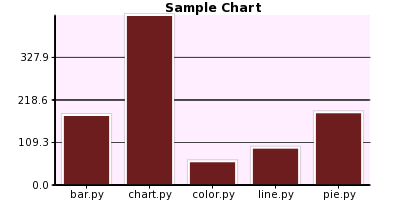
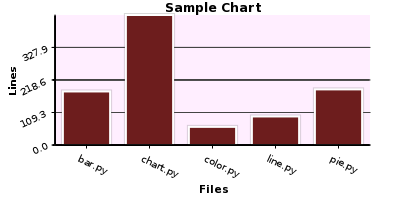
Support for rendering the ticks with rotation. Also support for drawing labels in both axis. Based on patch sended by jae. View #6

diff --git a/src/chart.py b/src/chart.py
@@ -16,6 +16,8 @@
 # along with PyCha.  If not, see <http://www.gnu.org/licenses/>.
 
 import copy
+import math
+
 import cairo
 
 from pycha.color import (defaultColorscheme, getColorscheme, hex2rgb,
@@ -305,6 +307,110 @@ class Chart(object):
     def _renderChart(self, cx):
         raise NotImplementedError
 
+    def _renderYLabel(self, cx, tick):
+        """Aux method for _renderAxis"""
+
+        if callable(tick):
+            return
+
+        x = self.area.x
+        y = self.area.y + tick[0] * self.area.h
+
+        cx.new_path()
+        cx.move_to(x, y)
+        cx.line_to(x - self.options.axis.tickSize, y)
+        cx.close_path()
+        cx.stroke()
+
+        label =  unicode(tick[1])
+        extents = cx.text_extents(label)
+        labelWidth = extents[2]
+        labelHeight = extents[3]
+
+        if self.options.axis.y.rotate:
+            radians = math.radians(self.options.axis.y.rotate)
+            cx.move_to(x - self.options.axis.tickSize
+                       - (labelWidth * math.cos(radians))
+                       - 4,
+                       y + (labelWidth * math.sin(radians))
+                       + labelHeight / (2.0 / math.cos(radians)))
+            cx.rotate(-radians)
+            cx.show_text(label)
+            cx.rotate(radians) # this is probably faster than a save/restore
+        else:
+            cx.move_to(x - self.options.axis.tickSize - labelWidth - 4,
+                       y + labelHeight / 2.0)
+            cx.show_text(label)
+
+        return label
+
+    def _renderXLabel(self, cx, tick, fontAscent):
+        if callable(tick):
+            return
+
+        x = self.area.x + tick[0] * self.area.w
+        y = self.area.y + self.area.h
+
+        cx.new_path()
+        cx.move_to(x, y)
+        cx.line_to(x, y + self.options.axis.tickSize)
+        cx.close_path()
+        cx.stroke()
+
+        label = unicode(tick[1])
+        extents = cx.text_extents(label)
+        labelWidth = extents[2]
+        labelHeight = extents[3]
+
+        if self.options.axis.x.rotate:
+            radians = math.radians(self.options.axis.x.rotate)
+            cx.move_to(x - (labelHeight * math.cos(radians)),
+                       y + self.options.axis.tickSize
+                       + (labelHeight * math.cos(radians))
+                       + 4.0)
+            cx.rotate(radians)
+            cx.show_text(label)
+            cx.rotate(-radians)
+        else:
+            cx.move_to(x - labelWidth / 2.0,
+                       y + self.options.axis.tickSize
+                       + fontAscent + 4.0)
+            cx.show_text(label)
+        return label
+
+    def _getTickSize(self, cx, ticks, rotate):
+        tickExtents = [cx.text_extents(unicode(tick[1]))[2:4] for tick in ticks]
+        tickWidth = tickHeight = 0.0
+        if tickExtents:
+            tickHeight = tickHeight = self.options.axis.tickSize + 4.0
+            widths, heights = zip(*tickExtents)
+            maxWidth, maxHeight = max(widths), max(heights)
+            if rotate:
+                radians = math.radians(rotate)
+                sinRadians = math.sin(radians)
+                cosRadians = math.cos(radians)
+                maxHeight = maxWidth * sinRadians + maxHeight * cosRadians
+                maxWidth =  maxWidth * cosRadians + maxHeight * sinRadians
+            tickWidth += maxWidth
+            tickHeight += maxHeight
+        return tickWidth, tickHeight
+        
+    def _renderAxisLabel(self, cx, tickWidth, tickHeight, label, x, y, vertical=False):
+        cx.new_path()
+        cx.select_font_face(self.options.axis.labelFont,
+                            cairo.FONT_SLANT_NORMAL,
+                            cairo.FONT_WEIGHT_BOLD)
+        labelWidth = cx.text_extents(label)[2]
+        fontAscent = cx.font_extents()[0]
+        if vertical:
+            cx.move_to(x, y + labelWidth / 2)
+            radians = math.radians(90)
+            cx.rotate(-radians)
+        else:
+            cx.move_to(x - labelWidth / 2.0, y + fontAscent)
+            
+        cx.show_text(label)
+
     def _renderAxis(self, cx):
         """Renders axis"""
         if self.options.axis.x.hide and self.options.axis.y.hide:
@@ -316,31 +422,20 @@ class Chart(object):
 
         if not self.options.axis.y.hide:
             if self.yticks:
-                def drawYLabel(tick):
-                    if callable(tick):
-                        return
-
-                    x = self.area.x
-                    y = self.area.y + tick[0] * self.area.h
-
-                    cx.new_path()
-                    cx.move_to(x, y)
-                    cx.line_to(x - self.options.axis.tickSize, y)
-                    cx.close_path()
-                    cx.stroke()
-
-                    label =  unicode(tick[1])
-                    extents = cx.text_extents(label)
-                    labelWidth = extents[2]
-                    labelHeight = extents[3]
-                    cx.move_to(x - self.options.axis.tickSize - labelWidth - 5,
-                               y + labelHeight / 2.0)
-                    cx.show_text(label)
-
-                    return label
                 for tick in self.yticks:
-                    drawYLabel(tick)
+                    self._renderYLabel(cx, tick)
 
+            if self.options.axis.y.label:
+                cx.save()
+                rotate = self.options.axis.y.rotate
+                tickWidth, tickHeight = self._getTickSize(cx, self.yticks, rotate)
+                label = unicode(self.options.axis.y.label)
+                x = self.area.x - tickWidth - 4.0
+                y = self.area.y + 0.5 * self.area.h
+                self._renderAxisLabel(cx, tickWidth, tickHeight, label, x, y, True)
+                cx.restore()
+
+            # draws the vertical line representing the Y axis
             cx.new_path()
             cx.move_to(self.area.x, self.area.y)
             cx.line_to(self.area.x, self.area.y + self.area.h)
@@ -348,31 +443,22 @@ class Chart(object):
             cx.stroke()
 
         if not self.options.axis.x.hide:
+            fontAscent = cx.font_extents()[0]
             if self.xticks:
-                def drawXLabel(tick):
-                    if callable(tick):
-                        return
-
-                    x = self.area.x + tick[0] * self.area.w
-                    y = self.area.y + self.area.h
-
-                    cx.new_path()
-                    cx.move_to(x, y)
-                    cx.line_to(x, y + self.options.axis.tickSize)
-                    cx.close_path()
-                    cx.stroke()
-
-                    label = unicode(tick[1])
-                    extents = cx.text_extents(label)
-                    labelWidth = extents[2]
-                    labelHeight = extents[3]
-                    cx.move_to(x - labelWidth / 2.0,
-                               y + self.options.axis.tickSize + 10)
-                    cx.show_text(label)
-                    return label
                 for tick in self.xticks:
-                    drawXLabel(tick)
+                    self._renderXLabel(cx, tick, fontAscent)
 
+            if self.options.axis.x.label:
+                cx.save()
+                rotate = self.options.axis.x.rotate
+                tickWidth, tickHeight = self._getTickSize(cx, self.xticks, rotate)
+                label = unicode(self.options.axis.x.label)
+                x = self.area.x + self.area.w / 2.0
+                y = self.area.y + self.area.h + tickHeight + 4.0
+                self._renderAxisLabel(cx, tickWidth, tickHeight, label, x, y, False)
+                cx.restore()
+
+            # draws the horizontal line representing the X axis
             cx.new_path()
             cx.move_to(self.area.x, self.area.y + self.area.h)
             cx.line_to(self.area.x + self.area.w, self.area.y + self.area.h)
@@ -383,10 +469,7 @@ class Chart(object):
 
     def _renderTitle(self, cx):
         if self.options.title:
-            # get previous font information
-            oldFace = cx.get_font_face()
-            oldMatrix = cx.get_font_matrix()
-            
+            cx.save()           
             cx.select_font_face(self.options.titleFont,
                                 cairo.FONT_SLANT_NORMAL,
                                 cairo.FONT_WEIGHT_BOLD)
@@ -402,9 +485,7 @@ class Chart(object):
             cx.move_to(x, y)
             cx.show_text(title)
             
-            # restore font state
-            cx.set_font_face(oldFace)
-            cx.set_font_matrix(oldMatrix)
+            cx.restore()
 
     def _renderLegend(self, cx):
         """This function adds a legend to the chart"""
@@ -493,6 +574,8 @@ DEFAULT_OPTIONS = Option(
             tickCount=10,
             tickPrecision=1,
             range=None,
+            rotate=None,
+            label=None,
         ),
         y=Option(
             hide=False,
@@ -500,6 +583,8 @@ DEFAULT_OPTIONS = Option(
             tickCount=10,
             tickPrecision=1,
             range=None,
+            rotate=None,
+            label=None,
         ),
     ),
     background=Option(

diff --git a/examples/barchart.py b/examples/barchart.py
@@ -34,9 +34,13 @@ def barChart(output, chartFactory):
         'axis': {
             'x': {
                 'ticks': [dict(v=i, label=l[0]) for i, l in enumerate(lines)],
+                'label': 'Files',
+                'rotate': 25,
             },
             'y': {
                 'tickCount': 4,
+                'rotate': 25,
+                'label': 'Lines'
             }
         },
         'background': {
@@ -49,7 +53,8 @@ def barChart(output, chartFactory):
             'hide': True,
         },
         'padding': {
-            'left': 55
+            'left': 55,
+            'bottom': 55,
         },
         'title': 'Sample Chart'
     }
